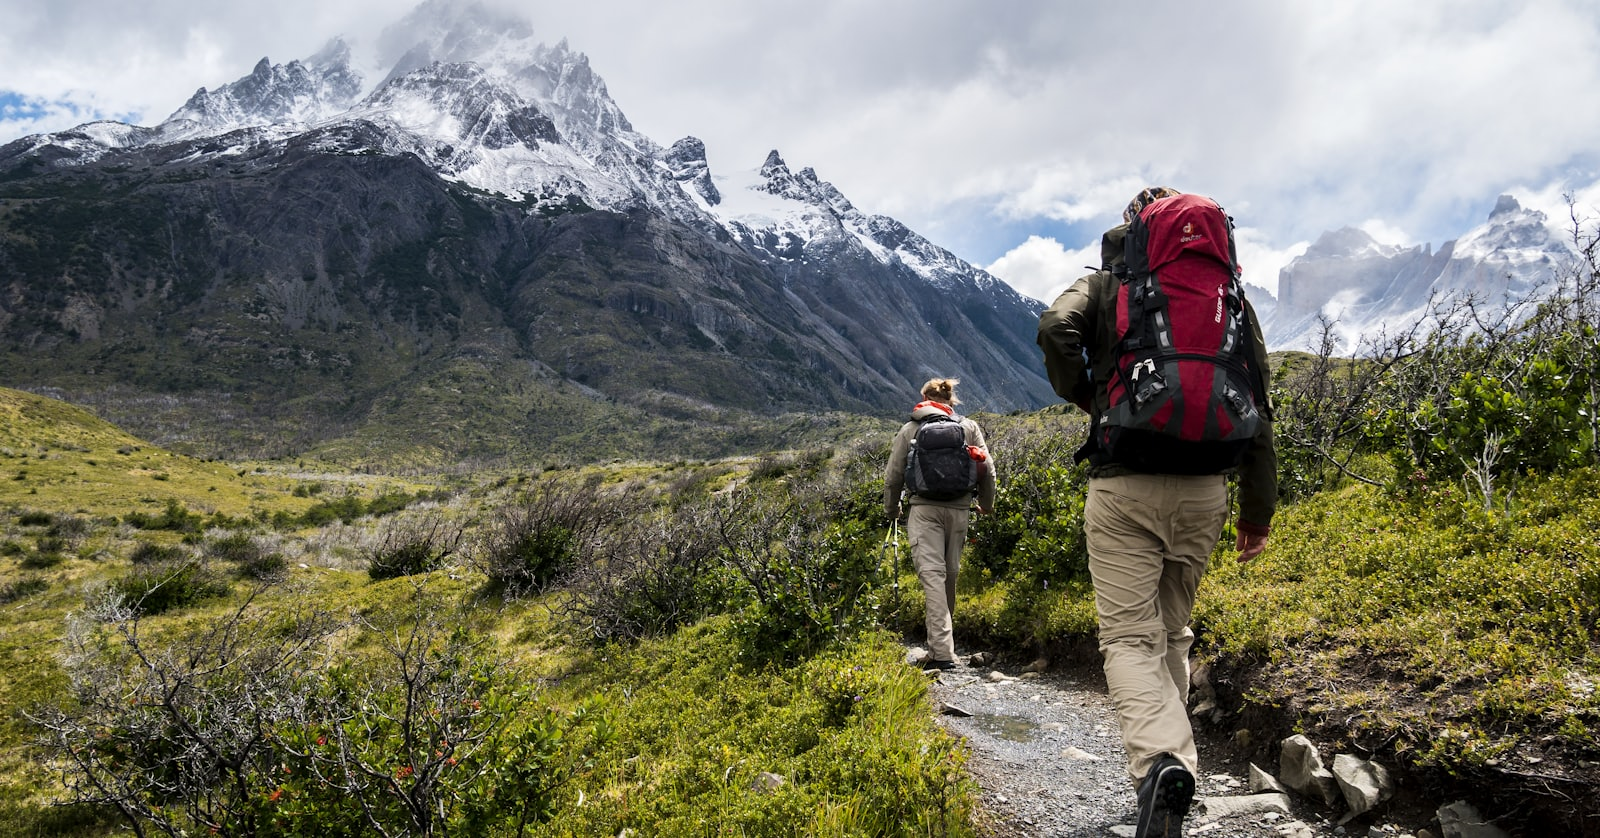
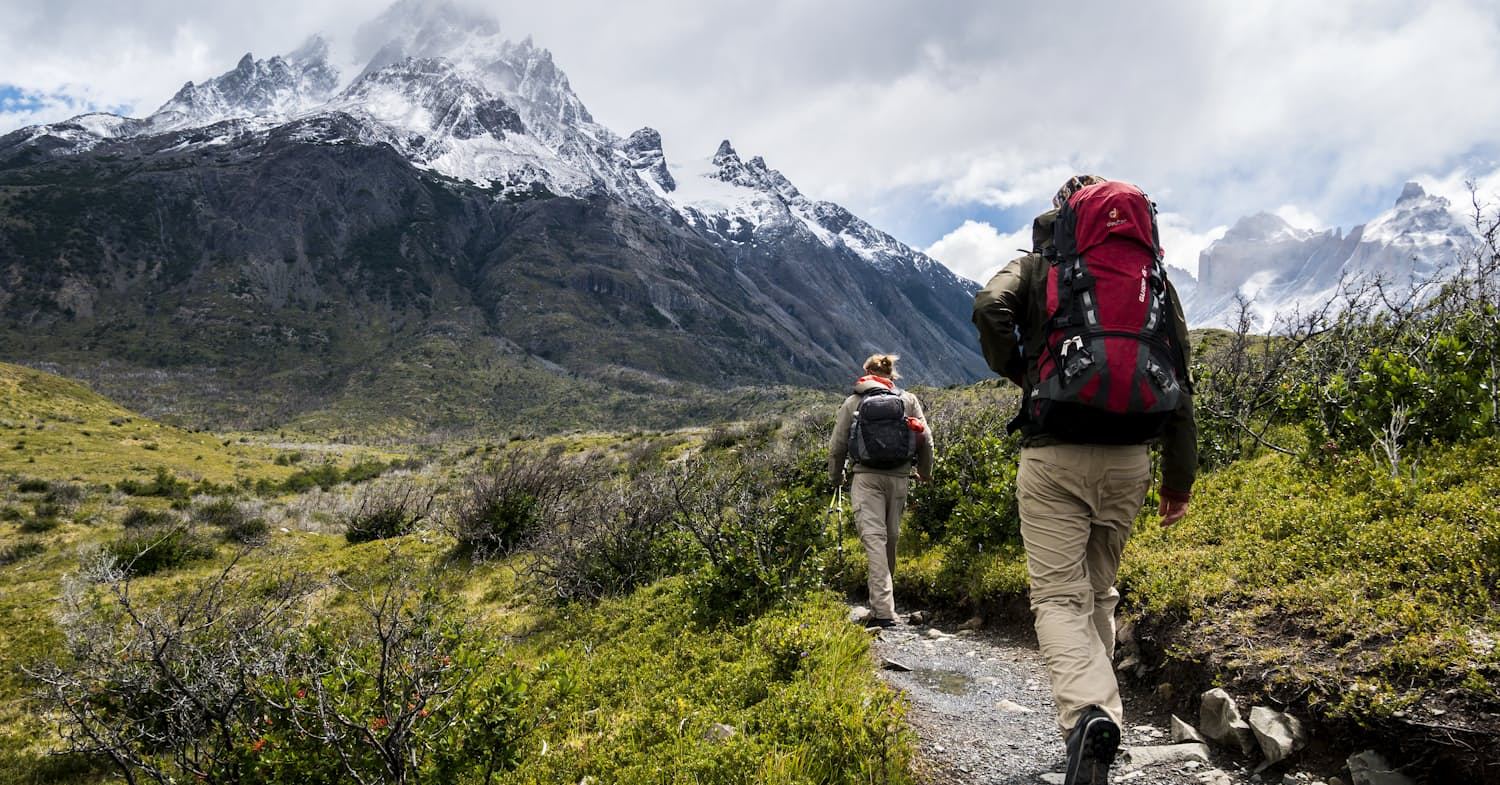
fix(landing): modal de regulamento local (DS-token) + SEO/perf das imagens [LEELA-LPVK-T2FIX-SEO]
O Modal do DS e Radix Dialog e o dist do DS externaliza @radix-ui/react-dialog;
a landing e Radix-free, entao a rota do evento dava 500 (MODULE_NOT_FOUND) ao
puxar o Modal. Fix: modal LOCAL da landing (client leaf) com tokens do DS e a11y
completa (role=dialog/aria-modal, 4 vias de fechar, foco entra/retorna, scroll
lock); RegulamentoSection virou server shell.

SEO/perf (adendo Vitor): CoverImage com priority(eager LCP)/width/height/decoding;
hero=priority 1600x838; galeria 1200x900 + lazy + alt tematico; trail 409->235KB;
avatar mock revertido p/ SVG (foto sob inicial leria mal).

Constraint: landing e deliberadamente Radix-free (marca.tsx replica valores do DS)
Rejected: adicionar @radix-ui/react-dialog ao bundle publico da landing | peso publico p/ 1 modal; contraria a arquitetura Radix-free — registrado p/ o lead decidir
Rejected: capa mock virar og:image/JSON-LD | representaria o evento com foto de banco
Confidence: high
Scope-risk: moderate
Not-tested: gate visual da landing (dev :3200 do Vitor saturou; nao derrubei)

diff --git a/apps/landing/app/(public)/[eventSlug]/sections/RegulamentoModal.tsx b/apps/landing/app/(public)/[eventSlug]/sections/RegulamentoModal.tsx
@@ -1,0 +1,126 @@
+'use client';
+
+// =============================================================================
+// RegulamentoModal — leaf CLIENTE do botão + modal do regulamento (T2).
+//
+// Por que NÃO o Modal do DS: o Modal do DS é Radix Dialog, e o dist do DS
+// EXTERNALIZA `@radix-ui/react-dialog`. A landing é deliberadamente Radix-free
+// (os componentes do DS que ela consome são nativos/custom, não Radix — ver
+// `marca.tsx`, que replica valores do DS para manter SSR puro). Importar o
+// Modal do DS aqui puxa `@radix-ui/react-dialog` para o bundle público da
+// landing, que NÃO o resolve (MODULE_NOT_FOUND) → 500 na rota do evento.
+// Solução consistente com a arquitetura: modal LOCAL, acessível, com os MESMOS
+// tokens do DS (surface/overlay/foco), sem nova dependência no bundle público.
+// (Follow-up registrado: se o Vitor quiser o componente literal do DS, adicionar
+// `@radix-ui/react-dialog` como dep da landing — decisão de stack do lead.)
+//
+// A11y (DoD Modal): role=dialog + aria-modal + aria-labelledby; 4 vias de
+// fechamento (X, Esc, clique no overlay, botão Fechar); foco entra no fechar ao
+// abrir e RETORNA ao gatilho ao fechar; scroll do body travado enquanto aberto.
+// =============================================================================
+
+import { useCallback, useEffect, useId, useRef, useState } from 'react';
+import { FileText, X } from 'lucide-react';
+import { Button } from '@/app/_ds/ds';
+
+export function RegulamentoModal({
+  regulamento,
+  versao,
+}: {
+  regulamento: string;
+  versao?: number;
+}): React.JSX.Element {
+  const [aberto, setAberto] = useState(false);
+  const tituloId = useId();
+  const gatilhoRef = useRef<HTMLButtonElement | null>(null);
+  const fecharRef = useRef<HTMLButtonElement | null>(null);
+
+  const fechar = useCallback(() => setAberto(false), []);
+
+  // Esc fecha; foco entra no botão fechar ao abrir; scroll do body travado.
+  useEffect(() => {
+    if (!aberto) return;
+    const onKey = (e: KeyboardEvent): void => {
+      if (e.key === 'Escape') fechar();
+    };
+    document.addEventListener('keydown', onKey);
+    const overflowAntes = document.body.style.overflow;
+    document.body.style.overflow = 'hidden';
+    fecharRef.current?.focus();
+    return () => {
+      document.removeEventListener('keydown', onKey);
+      document.body.style.overflow = overflowAntes;
+      // Retorna o foco ao gatilho ao fechar (retorno de foco do DoD Modal).
+      gatilhoRef.current?.focus();
+    };
+  }, [aberto, fechar]);
+
+  return (
+    <div className="mt-6">
+      <Button ref={gatilhoRef} variant="secondary" onClick={() => setAberto(true)}>
+        Ler regulamento completo
+      </Button>
+
+      {aberto ? (
+        <div
+          className="fixed inset-0 z-50 flex items-end justify-center sm:items-center"
+          role="dialog"
+          aria-modal="true"
+          aria-labelledby={tituloId}
+        >
+          {/* Overlay — escurece + fecha ao clicar (via 1..4). Token com alpha. */}
+          <div
+            aria-hidden
+            className="absolute inset-0 bg-surface-base/80 backdrop-blur-sm"
+            onClick={fechar}
+          />
+
+          {/* Painel — surface-raised, radius e elevação do DS; scroll interno. */}
+          <div className="relative z-10 flex max-h-[85vh] w-full max-w-2xl flex-col rounded-t-ds-lg bg-surface-raised shadow-elev-3 sm:rounded-ds-lg">
+            <div className="flex items-start justify-between gap-4 border-b border-border-subtle px-5 py-4 sm:px-6">
+              <div className="min-w-0">
+                <h3
+                  id={tituloId}
+                  className="flex items-center gap-2 font-display text-lg font-bold tracking-tight text-text-primary"
+                >
+                  <FileText size={20} strokeWidth={1.75} aria-hidden className="shrink-0 text-text-brand" />
+                  Regulamento da prova
+                </h3>
+                {versao !== undefined ? (
+                  <p className="mt-1 text-sm text-text-secondary">
+                    Versão {versao} — vigente para as inscrições atuais.
+                  </p>
+                ) : null}
+              </div>
+              <button
+                ref={fecharRef}
+                type="button"
+                aria-label="Fechar"
+                onClick={fechar}
+                className="shrink-0 rounded-ds-sm p-1.5 text-text-secondary transition-colors hover:bg-surface-sunken hover:text-text-primary focus-visible:outline-none focus-visible:ring-2 focus-visible:ring-border-focus"
+              >
+                <X size={20} aria-hidden />
+              </button>
+            </div>
+
+            {/* Corpo com scroll interno (ritmo vertical + tipografia do DS).
+                Texto PURO com quebras preservadas — nunca HTML cru. */}
+            <div className="overflow-y-auto px-5 py-4 sm:px-6">
+              <div className="whitespace-pre-wrap break-words text-sm leading-relaxed text-text-secondary">
+                {regulamento}
+              </div>
+            </div>
+
+            <div className="flex justify-end border-t border-border-subtle px-5 py-3 sm:px-6">
+              <Button variant="secondary" onClick={fechar}>
+                Fechar
+              </Button>
+            </div>
+          </div>
+        </div>
+      ) : null}
+    </div>
+  );
+}
+
+RegulamentoModal.displayName = 'RegulamentoModal';

diff --git a/apps/landing/app/(public)/[eventSlug]/sections/RegulamentoSection.tsx b/apps/landing/app/(public)/[eventSlug]/sections/RegulamentoSection.tsx
@@ -1,33 +1,27 @@
-'use client';
-
 // =============================================================================
 // RegulamentoSection — regulamento da prova em MODAL (LP-VENDAS-KIT/T2).
 //
 // Pedido do Vitor: a página do evento expõe o regulamento da competição num
-// componente visível na página inicial do evento; o clique abre um MODAL
-// (Dialog do DS — governança §8) com o conteúdo REAL do campo `regulamento`
-// (RN-153, ≤50k; `regulamentoVersao` da RN-149 como referência de exibição).
+// componente visível na página inicial do evento; o clique abre um MODAL com o
+// conteúdo REAL do campo `regulamento` (RN-153, ≤50k; `regulamentoVersao` da
+// RN-149 como referência de exibição).
 //
-// HONESTIDADE (sem estado vazio fake): evento SEM regulamento ⇒ o componente
-// não renderiza (retorna null). O leitor server-side só projeta `regulamento`
-// quando é string não-vazia, então o gate aqui é redundante e barato.
+// SERVER COMPONENT puro (Dobra + título + descrição são server-safe, como o
+// resto das seções). Só o gatilho + o modal são client (`RegulamentoModal`) —
+// mesma disciplina de manter o SSR puro e isolar o cliente no leaf.
 //
-// SEGURANÇA: o regulamento é TEXTO puro — renderizado com `whitespace-pre-wrap`
-// (preserva quebras de linha do organizador), NUNCA `dangerouslySetInnerHTML`.
-// Client Component (o Modal do DS controla `open` por estado); o texto vem
-// server-rendered via prop serializável.
+// HONESTIDADE (sem estado vazio fake): evento SEM regulamento ⇒ a seção não
+// renderiza (retorna null). O leitor server-side só projeta `regulamento`
+// quando é string não-vazia; o gate aqui é redundante e barato.
 // =============================================================================
 
-import { useState } from 'react';
 import { FileText } from 'lucide-react';
 import type { EventoPublico } from '@/lib/tipos';
-import { Button, Modal } from '@/app/_ds/ds';
 import { Dobra } from './Dobra';
 import { TituloSecao } from './marca';
+import { RegulamentoModal } from './RegulamentoModal';
 
 export function RegulamentoSection({ evento }: { evento: EventoPublico }): React.JSX.Element | null {
-  const [aberto, setAberto] = useState(false);
-
   const regulamento = evento.regulamento;
   if (regulamento === undefined || regulamento.trim().length === 0) return null;
 
@@ -39,27 +33,10 @@ export function RegulamentoSection({ evento }: { evento: EventoPublico }): React
         participação, categorias, premiação e política de cancelamento.
       </p>
 
-      <div className="mt-6">
-        <Button variant="secondary" onClick={() => setAberto(true)}>
-          Ler regulamento completo
-        </Button>
-      </div>
-
-      <Modal
-        open={aberto}
-        onOpenChange={setAberto}
-        title="Regulamento da prova"
-        size="lg"
-        {...(evento.regulamentoVersao !== undefined
-          ? { description: `Versão ${evento.regulamentoVersao} — vigente para as inscrições atuais.` }
-          : {})}
-      >
-        {/* Texto puro, quebras preservadas; o Modal do DS já dá o scroll interno
-            (max-h + overflow-y-auto) — ritmo vertical e tipografia (Exo 2) do DS. */}
-        <div className="whitespace-pre-wrap break-words text-sm leading-relaxed text-text-secondary">
-          {regulamento}
-        </div>
-      </Modal>
+      <RegulamentoModal
+        regulamento={regulamento}
+        {...(evento.regulamentoVersao !== undefined ? { versao: evento.regulamentoVersao } : {})}
+      />
     </Dobra>
   );
 }

diff --git a/apps/landing/app/(public)/[eventSlug]/sections/GaleriaSection.tsx b/apps/landing/app/(public)/[eventSlug]/sections/GaleriaSection.tsx
@@ -16,9 +16,21 @@ import { TituloSecao } from './marca';
  * evento. Server Component; `<img>` de asset local estático.
  */
 const IMAGENS_EXEMPLO: readonly { src: string; alt: string; rotulo: string }[] = [
-  { src: '/gallery/leela-galeria-largada.jpg', alt: 'Imagem de exemplo: largada', rotulo: 'Largada' },
-  { src: '/gallery/leela-galeria-percurso.jpg', alt: 'Imagem de exemplo: percurso', rotulo: 'No percurso' },
-  { src: '/gallery/leela-galeria-chegada.jpg', alt: 'Imagem de exemplo: chegada', rotulo: 'Chegada' },
+  {
+    src: '/gallery/leela-galeria-largada.jpg',
+    alt: 'Grupo de corredores na largada de uma corrida de rua',
+    rotulo: 'Largada',
+  },
+  {
+    src: '/gallery/leela-galeria-percurso.jpg',
+    alt: 'Corredores durante o percurso de uma corrida de rua ao amanhecer',
+    rotulo: 'No percurso',
+  },
+  {
+    src: '/gallery/leela-galeria-chegada.jpg',
+    alt: 'Corredora comemorando a chegada da prova ao pôr do sol',
+    rotulo: 'Chegada',
+  },
 ];
 
 export function GaleriaSection(): React.JSX.Element {
@@ -34,7 +46,16 @@ export function GaleriaSection(): React.JSX.Element {
           <li key={img.src}>
             <figure className="overflow-hidden rounded-ds-lg border border-border-subtle bg-surface-raised shadow-elev-1">
               <div className="relative aspect-[4/3] w-full overflow-hidden">
-                <img src={img.src} alt={img.alt} className="h-full w-full object-cover" />
+                {/* Abaixo da dobra → lazy; dimensão intrínseca 4:3 (zero CLS). */}
+                <img
+                  src={img.src}
+                  alt={img.alt}
+                  width={1200}
+                  height={900}
+                  loading="lazy"
+                  decoding="async"
+                  className="h-full w-full object-cover"
+                />
               </div>
               <figcaption className="px-4 py-3 text-sm font-semibold text-text-secondary">
                 {img.rotulo}

diff --git a/apps/landing/app/components/CoverImage.tsx b/apps/landing/app/components/CoverImage.tsx
@@ -23,10 +23,18 @@ export function CoverImage({
   src,
   alt,
   className,
+  priority = false,
+  width,
+  height,
 }: {
   src: string | undefined;
   alt: string;
   className?: string;
+  /** Capa acima da dobra (hero/LCP) → carrega eager; o resto fica lazy. */
+  priority?: boolean;
+  /** Dimensão intrínseca (evita CLS mesmo fora de contêiner com aspect fixo). */
+  width?: number;
+  height?: number;
 }): React.JSX.Element {
   const url = src?.trim();
   const [falhou, setFalhou] = useState(false);
@@ -36,11 +44,17 @@ export function CoverImage({
   }
 
   return (
-    // next/image exige allowlist de domínio (remotePatterns), fora do escopo
-    // V1; <img> puro com fallback resiliente cobre o caso do organizador.
+    // next/image exige allowlist de domínio (remotePatterns) p/ a capa http(s)
+    // arbitrária do organizador — fora do escopo V1; <img> puro com fallback
+    // resiliente cobre o caso. SEO/perf (adendo T1): dimensão intrínseca (sem
+    // CLS), `loading` lazy por padrão e `eager` só na capa do hero (LCP).
     <img
       src={url}
       alt={alt}
+      {...(width !== undefined ? { width } : {})}
+      {...(height !== undefined ? { height } : {})}
+      loading={priority ? 'eager' : 'lazy'}
+      decoding="async"
       className={className ?? 'h-full w-full object-cover'}
       onError={() => setFalhou(true)}
     />

diff --git a/apps/landing/lib/mockImagem.ts b/apps/landing/lib/mockImagem.ts
@@ -8,10 +8,11 @@
 // UI usa ele; estes só entram no lugar do placeholder cinza/monograma solto.
 // =============================================================================
 
-/** Avatar de exemplo (T1) — FOTO de retrato royalty-free (Unsplash License),
- *  substitui o monograma/SVG para o bloco "Organizado por" ler como pessoa real
- *  no preview. Só entra no lugar do placeholder; dado real (avatarUrl) vence. */
-export const AVATAR_MOCK = '/mock/organizador-avatar.jpg';
+/** Avatar brasa de exemplo — fundo de marca SOB a inicial real do organizador.
+ *  Mantido em SVG (não-foto): o slot sobrepõe a INICIAL do organizador; uma
+ *  foto de rosto sob uma letra leria mal. O realismo fotográfico do T1 fica nas
+ *  capas/galeria, onde a foto é a superfície inteira. */
+export const AVATAR_MOCK = '/mock/organizador-avatar.svg';
 
 /** Logos 1:1 de exemplo para a faixa de patrocinadores (fundo transparente). */
 const LOGOS_MOCK = [

diff --git a/apps/landing/app/(public)/[eventSlug]/sections/HeroCover.tsx b/apps/landing/app/(public)/[eventSlug]/sections/HeroCover.tsx
@@ -7,5 +7,9 @@ import { CoverImage } from '@/app/components/CoverImage';
  * ao gradiente de tokens caso o `src` falhe em runtime (link morto).
  */
 export function HeroCover({ src, nome }: { src: string; nome: string }): React.JSX.Element {
-  return <CoverImage src={src} alt={`Capa de ${nome}`} />;
+  // Capa NÍTIDA acima da dobra = LCP: eager + dimensão intrínseca 1.9:1 (RN-228)
+  // para zero CLS. Alt descritivo com o nome do evento.
+  return (
+    <CoverImage src={src} alt={`Capa do evento ${nome}`} priority width={1600} height={838} />
+  );
 }

diff --git a/apps/landing/app/_ds/ds.ts b/apps/landing/app/_ds/ds.ts
@@ -39,8 +39,6 @@ export {
   RadioGroup,
   RadioCard,
   Stepper,
-  // Modal (Radix Dialog do DS) — regulamento do evento (LP-VENDAS-KIT/T2).
-  Modal,
   // Estados de sistema (404/500 públicos) — LEELA-E07-web · S500-T3 / S502-T1.
   SystemStateScreen,
 } from '@leela/design-system';

diff --git a/.nirvana/handoffs/leela-build-2d6ee98d-LPVK.md b/.nirvana/handoffs/leela-build-2d6ee98d-LPVK.md
@@ -8,6 +8,23 @@ brief: .nirvana/briefs/leela-lp-vendas-kit-enriched.md
 - [x] T2 — Modal de regulamento na página do evento (Dialog/Modal do DS)
 - [x] T3 — KitEditor no painel (descrição/itens/upload 1:1) + exibição no KitDetalhe
 
+## FIX + SEO (adendo Vitor mid-flight) — gates: tsc 0 · eslint 0 · brand PASS
+- BUG achado no gate: o Modal do DS é Radix Dialog e o dist do DS EXTERNALIZA
+  `@radix-ui/react-dialog`; a landing é Radix-free → a rota do evento dava 500
+  (MODULE_NOT_FOUND) só onde o Modal era puxado (home ok pois não puxa Modal).
+  FIX: modal LOCAL da landing (`RegulamentoModal`, client leaf) com tokens do DS,
+  a11y completa (role=dialog/aria-modal, 4 vias de fechar, foco entra/retorna,
+  scroll-lock); `RegulamentoSection` virou server shell. Modal removido do _ds/ds.
+- SEO/perf: CoverImage ganhou priority(eager LCP)/width/height/decoding; hero=priority
+  1600×838; galeria width/height 1200×900 + lazy + alt temático; trail recomprimido
+  409→235KB; avatar mock revertido p/ SVG (foto sob inicial leria mal).
+- DECISÃO SEO: capas mock são placeholders app-side — NÃO viram og:image/JSON-LD
+  (seria representar o evento com foto de banco). OG/JSON-LD/sitemap/robots intactos.
+
+## AMBIENTE (gate visual): dev :3200 do Vitor SATUROU (1.37GB, todas as rotas
+   penduram, inclusive a home não-tocada) durante os recompiles — NÃO derrubei.
+   Painel :5273 (saudável) capturado. Landing: ver REPORT p/ estado do gate.
+
 ## T2 FEITO (gates: tsc 0 · eslint 0 · verify:brand PASS)
 - `regulamento` (+ regulamentoVersao) projetado p/ EventoPublico (tipos + leitor,
   ≤50k REGULAMENTO_MAX, só string não-vazia; texto puro, sem dangerouslySetInnerHTML).
